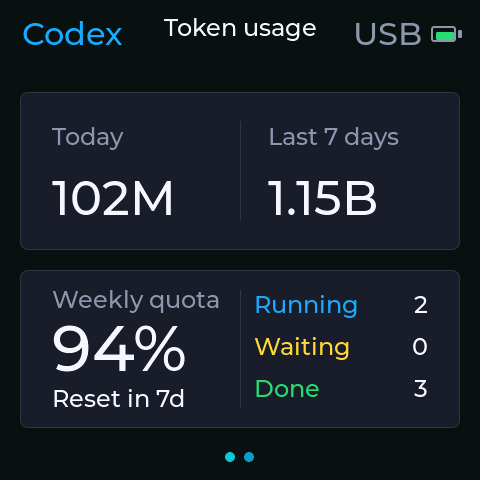
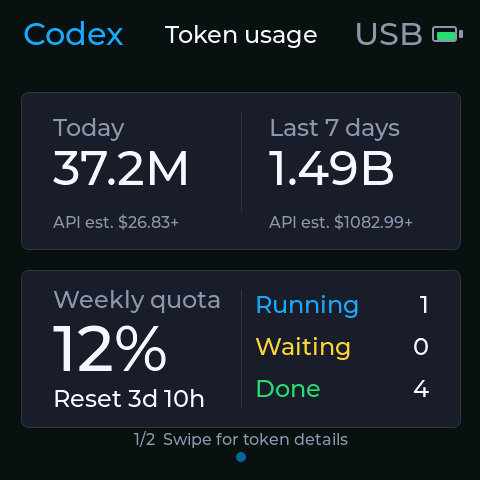
Document the two-screen release with screenshots and a dated changelog
Feature current hardware captures in the README and describe pricing review, touch navigation and changes since the initial Windows/C6 release.

diff --git a/README.md b/README.md
@@ -1,10 +1,15 @@
 # CodexMeter — Windows & ESP32-C6
 
-<p align="center">
-  <img src="docs/assets/windows-c6/device-photo.jpg" width="480" alt="CodexMeter running the Classic Tasks theme on a Waveshare ESP32-C6 AMOLED display in a printed desktop enclosure">
-  <br>
-  <em>Classic Tasks running on the actual Waveshare C6 display.</em>
-</p>
+<table>
+  <tr><th>Classic Tasks — dashboard</th><th>Classic Tasks — token details</th></tr>
+  <tr>
+    <td><img src="docs/assets/windows-c6/classic-tasks.png" width="400" alt="Dashboard with token totals, API cost estimates, weekly quota, days-and-hours reset countdown and chat counts"></td>
+    <td><img src="docs/assets/windows-c6/token-details.png" width="400" alt="Token details with Today and 7 days selection, uncached input, cached input, output and API cost estimates"></td>
+  </tr>
+</table>
+
+Actual C6 screenshots. Swipe horizontally to switch pages; tap **Today** or
+**7 days** on the details page. Values are examples from the capture, not live data.
 
 An English Windows companion and Waveshare ESP32-C6 port of
 [tomatoeggs/CodexMeter](https://github.com/tomatoeggs/CodexMeter).
@@ -17,6 +22,8 @@ It retains the original project's history, license and themes.
 Our maintained branch is **`windows-c6`**.
 
 **[Windows setup and flashing](README.windows.md)** ·
+**[Token details and pricing history](docs/token-pricing.md)** ·
+**[Changelog](CHANGELOG.txt)** ·
 **[Implementation notes](docs/windows-port.md)** ·
 **[Original upstream README (Chinese)](README.upstream.md)**
 
@@ -25,23 +32,24 @@ Our maintained branch is **`windows-c6`**.
 These are actual 480 × 480 screenshots captured from the C6, not mockups.
 The numbers are examples from the capture, not live values.
 
-<table>
-  <tr>
-    <th>Classic Tasks</th>
-    <th>Waiting for the companion</th>
-  </tr>
-  <tr>
-    <td><img src="docs/assets/windows-c6/classic-tasks.png" width="400" alt="Classic Tasks showing local token activity, weekly quota and running, waiting and done chat counts"></td>
-    <td><img src="docs/assets/windows-c6/waiting.png" width="400" alt="Centered CodexMeter title, USB power indicator and Waiting for companion app message"></td>
-  </tr>
-</table>
-
 ### Classic Tasks
 
 An additional variant of the original Classic theme places chat counts in the
 lower-right quarter and the quota reset countdown below the remaining
 percentage. Spacing and reset text were adjusted for readability on the C6.
 The original Classic theme remains available.
+
+Swipe to the second page for uncached input, cached input and output tokens,
+with Standard API-equivalent USD estimates. Tap the centered **Today / 7 days**
+selectors to change period. A **+** means some usage is unpriced; these estimates
+are not subscription charges. The reset countdown shows days and hours, switching
+to hours and minutes below one day.
+
+The desktop **Tokens / pricing** panel shows model attribution and dated pricing
+history. Daily official-source checks warn when the page changes, even when rates
+do not. Click the tray warning to see a comparison with saved rates; accepting a
+reviewed update adds a revision without rewriting history. See
+[token details and pricing](docs/token-pricing.md) for coverage and limitations.
 
 - **Running:** active chats that are not waiting for input or approval.
 - **Waiting:** chats awaiting your input or approval.
@@ -52,6 +60,8 @@ counts does not mark chats read or take control of them. Missing or stale chat
 telemetry shows `--` rather than an invented zero.
 
 ### Powered-on waiting screen
+
+<img src="docs/assets/windows-c6/waiting.png" width="320" alt="CodexMeter title, USB status and Waiting for companion app message">
 
 Before companion data arrives, the screen shows three centered lines:
 **CodexMeter**, the actual USB/battery status, and **Waiting for companion app**.
@@ -128,7 +138,7 @@ machine; the scripts do not silently fall back to another build drive.
   Codex update may require adapting that observer even though executable path
   discovery remains automatic.
 - The C6's static fonts cover the English/Latin UI, not arbitrary Unicode text.
-  Touch input and audio are not implemented by this port.
+  Touch navigation is supported in Classic Tasks; audio is not implemented.
 - The macOS and S3 code paths are retained. The physical hardware used for this
   port's validation is the C6; see the [validation notes](docs/windows-port.md#verification)
   for what was checked and what remains outside that coverage.

diff --git a/docs/token-pricing.md b/docs/token-pricing.md
@@ -1,0 +1,72 @@
+# Token details and API-equivalent costs
+
+In **Classic Tasks**, swipe horizontally to move between the dashboard and token
+details. On the details page, tap **Today** or **7 days**. The selection stays in
+place until changed; pages do not cycle automatically. Physical buttons retain
+their existing brightness, theme and settings functions. Touch is ignored while
+the screen is off, waiting for the companion, showing an alert, or in settings.
+The CST9220 input coordinates follow all four display rotations.
+
+The original Codex / Token usage / USB header is retained, with the center title
+vertically aligned. Token totals on the dashboard now include a cost summary.
+Details separate uncached input (labelled Input (new)), cached input and output.
+Reasoning tokens are a subset of output, not an additional charge/category.
+
+Costs are **USD at Standard API rates**, not subscription charges or an account
+invoice. Per-request input length selects short/long context rates. Fast/Batch,
+regional premiums, tools and other non-token charges are not included. The
+comparison deliberately uses Standard rates even if the Codex turn ran in a
+different speed tier.
+
+## Model attribution and missing data
+
+The companion joins local `token_usage_record` response IDs/turn IDs to the model
+in `turn_context`. Response IDs are deduplicated across resumed/forked logs.
+The selected model is the available evidence, not proof of internal routing.
+Old cumulative-only records remain in token totals but do not acquire a fabricated
+breakdown. Unknown/internal models (including `codex-auto-review`) remain unpriced.
+Requests with cache-write tokens are unpriced because these logs do not establish
+the cache retention needed to choose the published write rate.
+
+A **+** after a cost marks a priced subtotal with some usage unpriced. The footer
+also warns about missing token breakdowns. In that case category counts need not
+sum to the recorded total. **Tokens / pricing** in the desktop control panel shows
+model totals, priced subtotals, unpriced token counts and reasons. Small values
+are rounded on the device; the desktop retains microdollar calculation precision.
+
+## Pricing source and history
+
+The authoritative source is [OpenAI API pricing](https://developers.openai.com/api/docs/pricing),
+using its [machine-readable Markdown](https://developers.openai.com/api/docs/pricing.md).
+The bundled baseline was reviewed on 29 October 2026 and applies from that UTC
+date. Earlier usage is unpriced: this release does not invent historical rates.
+
+While running, the companion checks the official source at most once every 24
+hours, with a bounded network timeout. A whitespace-normalized fingerprint
+includes pricing prose, so changes to terms as well as rates prompt a warning.
+The tray posts a notification and the control panel retains a warning banner.
+Click the tray notification to open a small explanation and rate comparison with
+the last accepted revision. A page change does not necessarily mean rates changed.
+The same dialog is available from the tray's **Pricing source status** menu item.
+Opening it does not accept anything; stale notifications show the current status.
+A failed download or changed table schema produces a distinct check-failure
+warning and leaves saved prices in use. The main usage/Bluetooth loop is separate.
+
+Use **Tokens / pricing → Check official source → Review pricing update** to
+inspect parsed changes and open the official page. **Accept reviewed rates from
+now** adds a new dated revision; it does not overwrite earlier rates or reprice
+past requests. If context rules/table schema change, the parser must be updated
+before a candidate can be accepted. There is no silent automatic rate adoption.
+
+Pricing revisions, pending updates, check state and a summary report are local
+under `%USERPROFILE%\.codexmeter\pricing`. The network check sends no usage,
+credentials or chat contents. These runtime files are not stored in Git.
+
+## Validation
+
+Python regression tests cover cached-input accounting, multiple models, duplicate
+response records, unknown attribution, date/context selection, immutable rate
+revisions, source-change/failure states and the 512-byte BLE limit.
+`tools/validate_c6_token_cost.py` exercises the page/period UI with serial gesture
+injection and captures actual device frames. This verifies UI behavior but does
+not replace a physical swipe/tap check by the person holding the display.

diff --git a/README.windows.md b/README.windows.md
@@ -208,7 +208,7 @@ after loading `scripts/windows-env.ps1`, then run
 Controls: **KEY/IO10** decreases brightness or moves left; **BOOT/IO9** increases
 brightness or moves right; long presses select the previous/next theme.
 The middle **PWR** button opens/confirms settings; a long press toggles the
-display. Touch input and audio are not implemented by this port.
+display. Classic Tasks supports touch navigation; audio is not implemented.
 
 C6 auto-rotation reverses the sensor Y axis and applies a permanent 90-degree
 counterclockwise correction for the IMU-to-panel alignment. The sideways

diff --git a/docs/windows-port.md b/docs/windows-port.md
@@ -63,7 +63,7 @@ refreshes the real reading and clears a simulated battery display. Hardware
 validation for all 11 themes is retained in `dist/c6/usb-indicator-validation-final`;
 an attached physical battery was not available for this test.
 
-No touch or audio implementation was added. The firmware does not introduce a
+C6 touch navigation was added for Classic Tasks; audio is not implemented. The firmware does not introduce a
 new API key or authentication store on the device. See the Windows setup guide
 for the limits of local token counts and supported hook environments.
 
